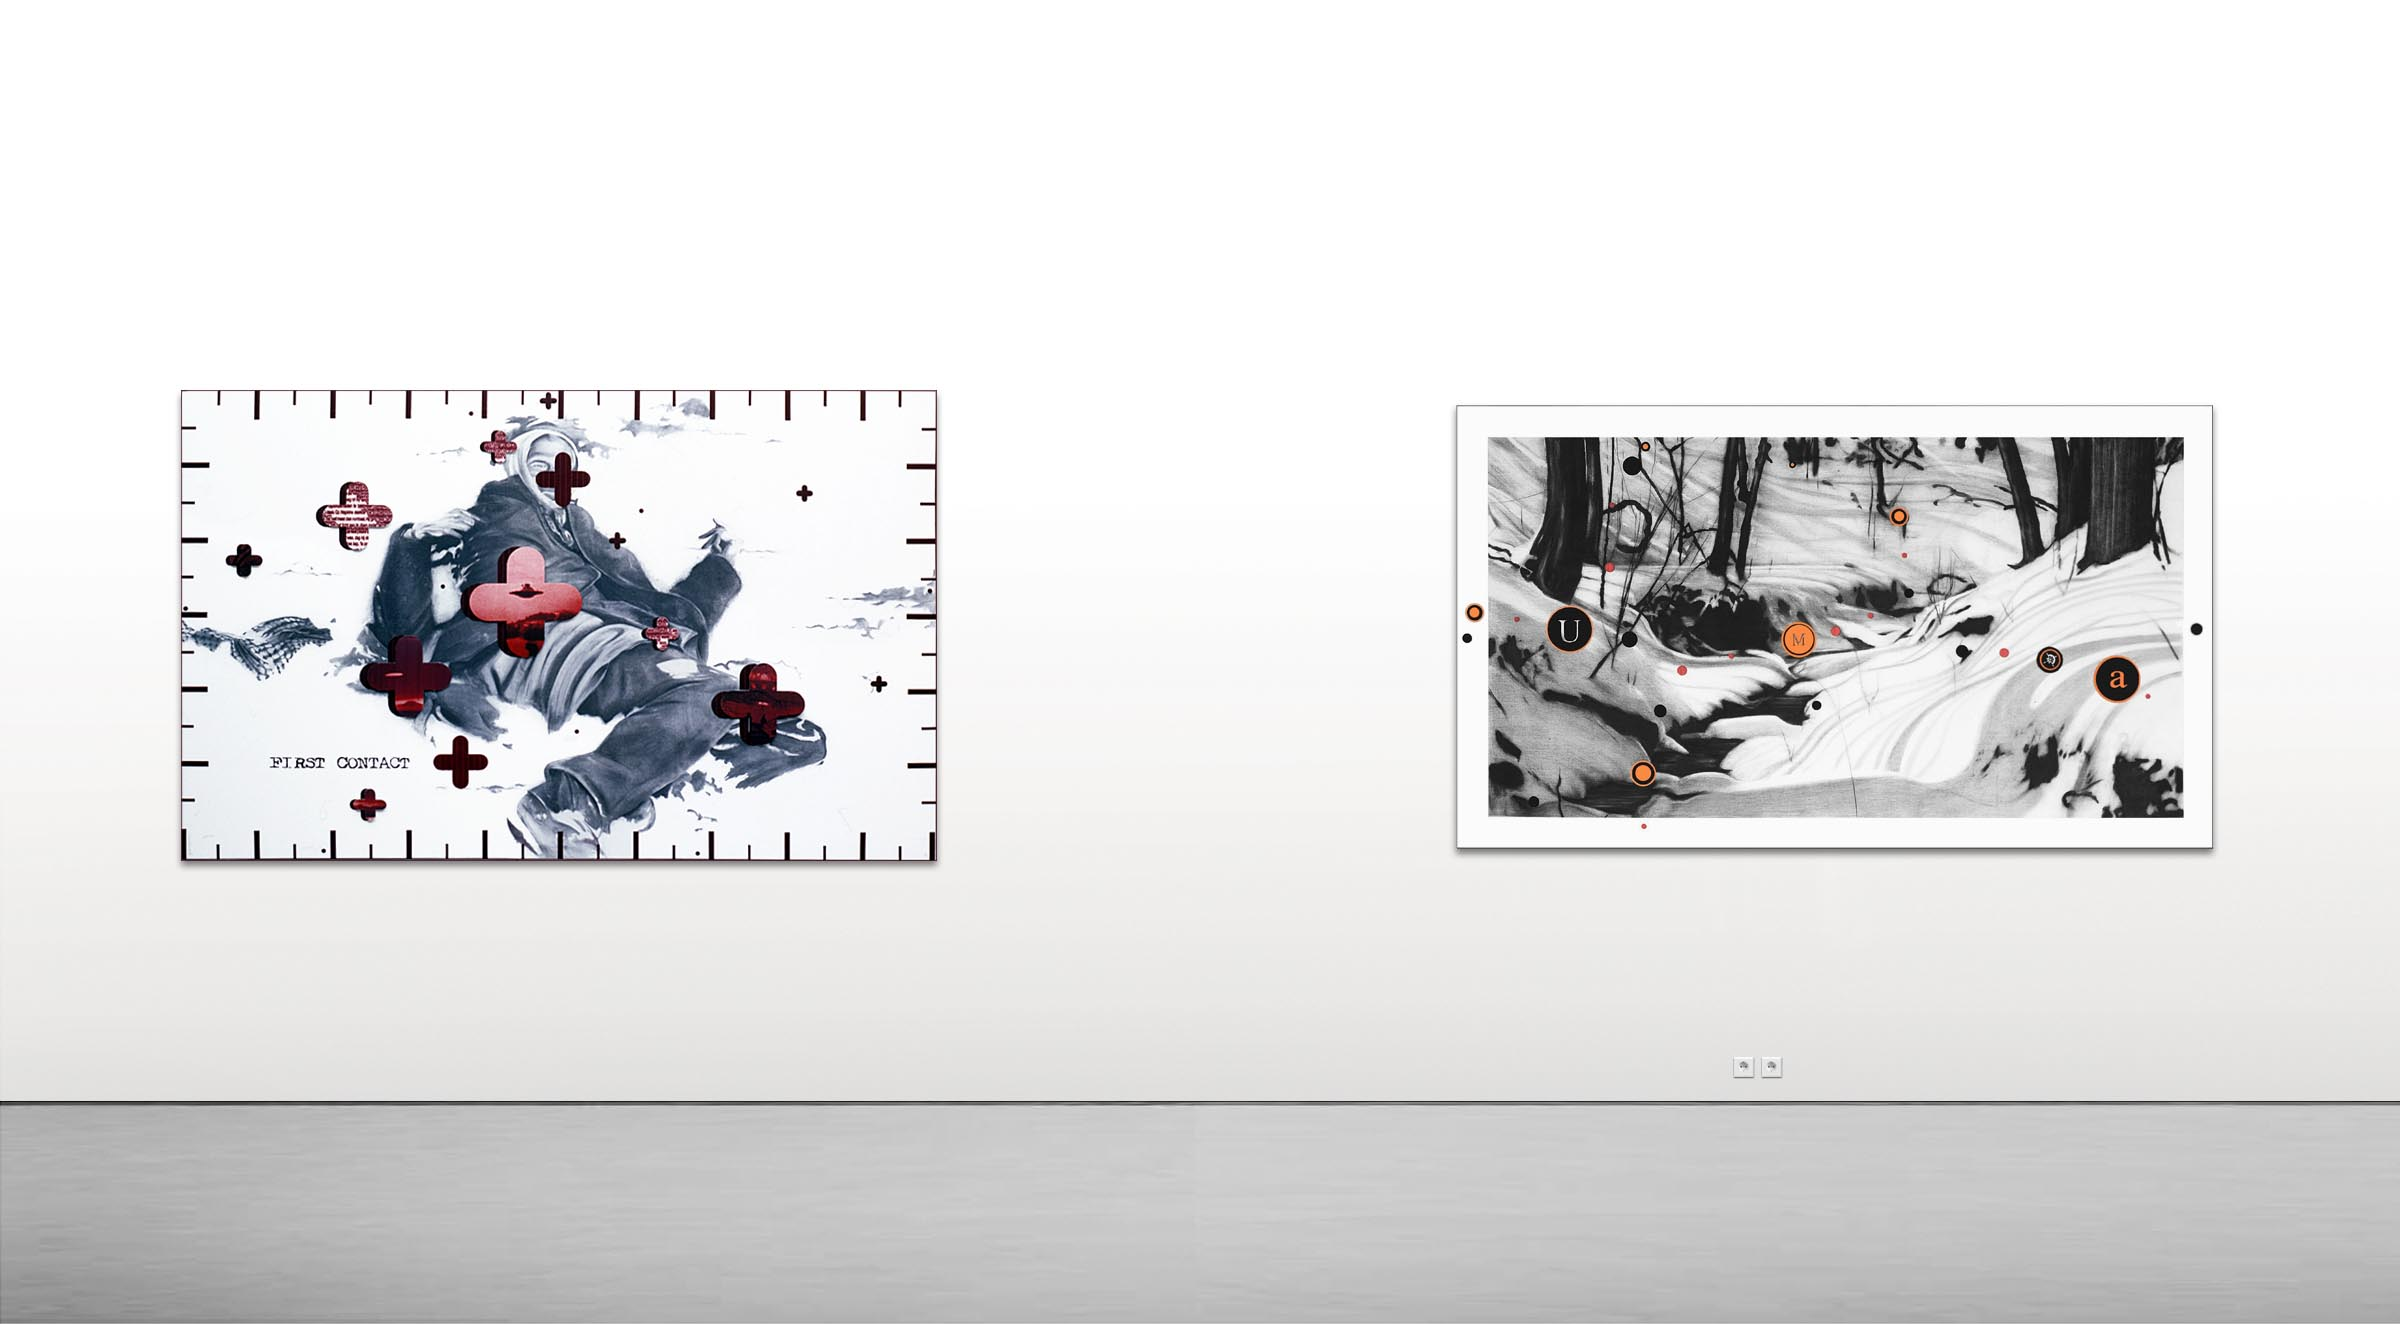
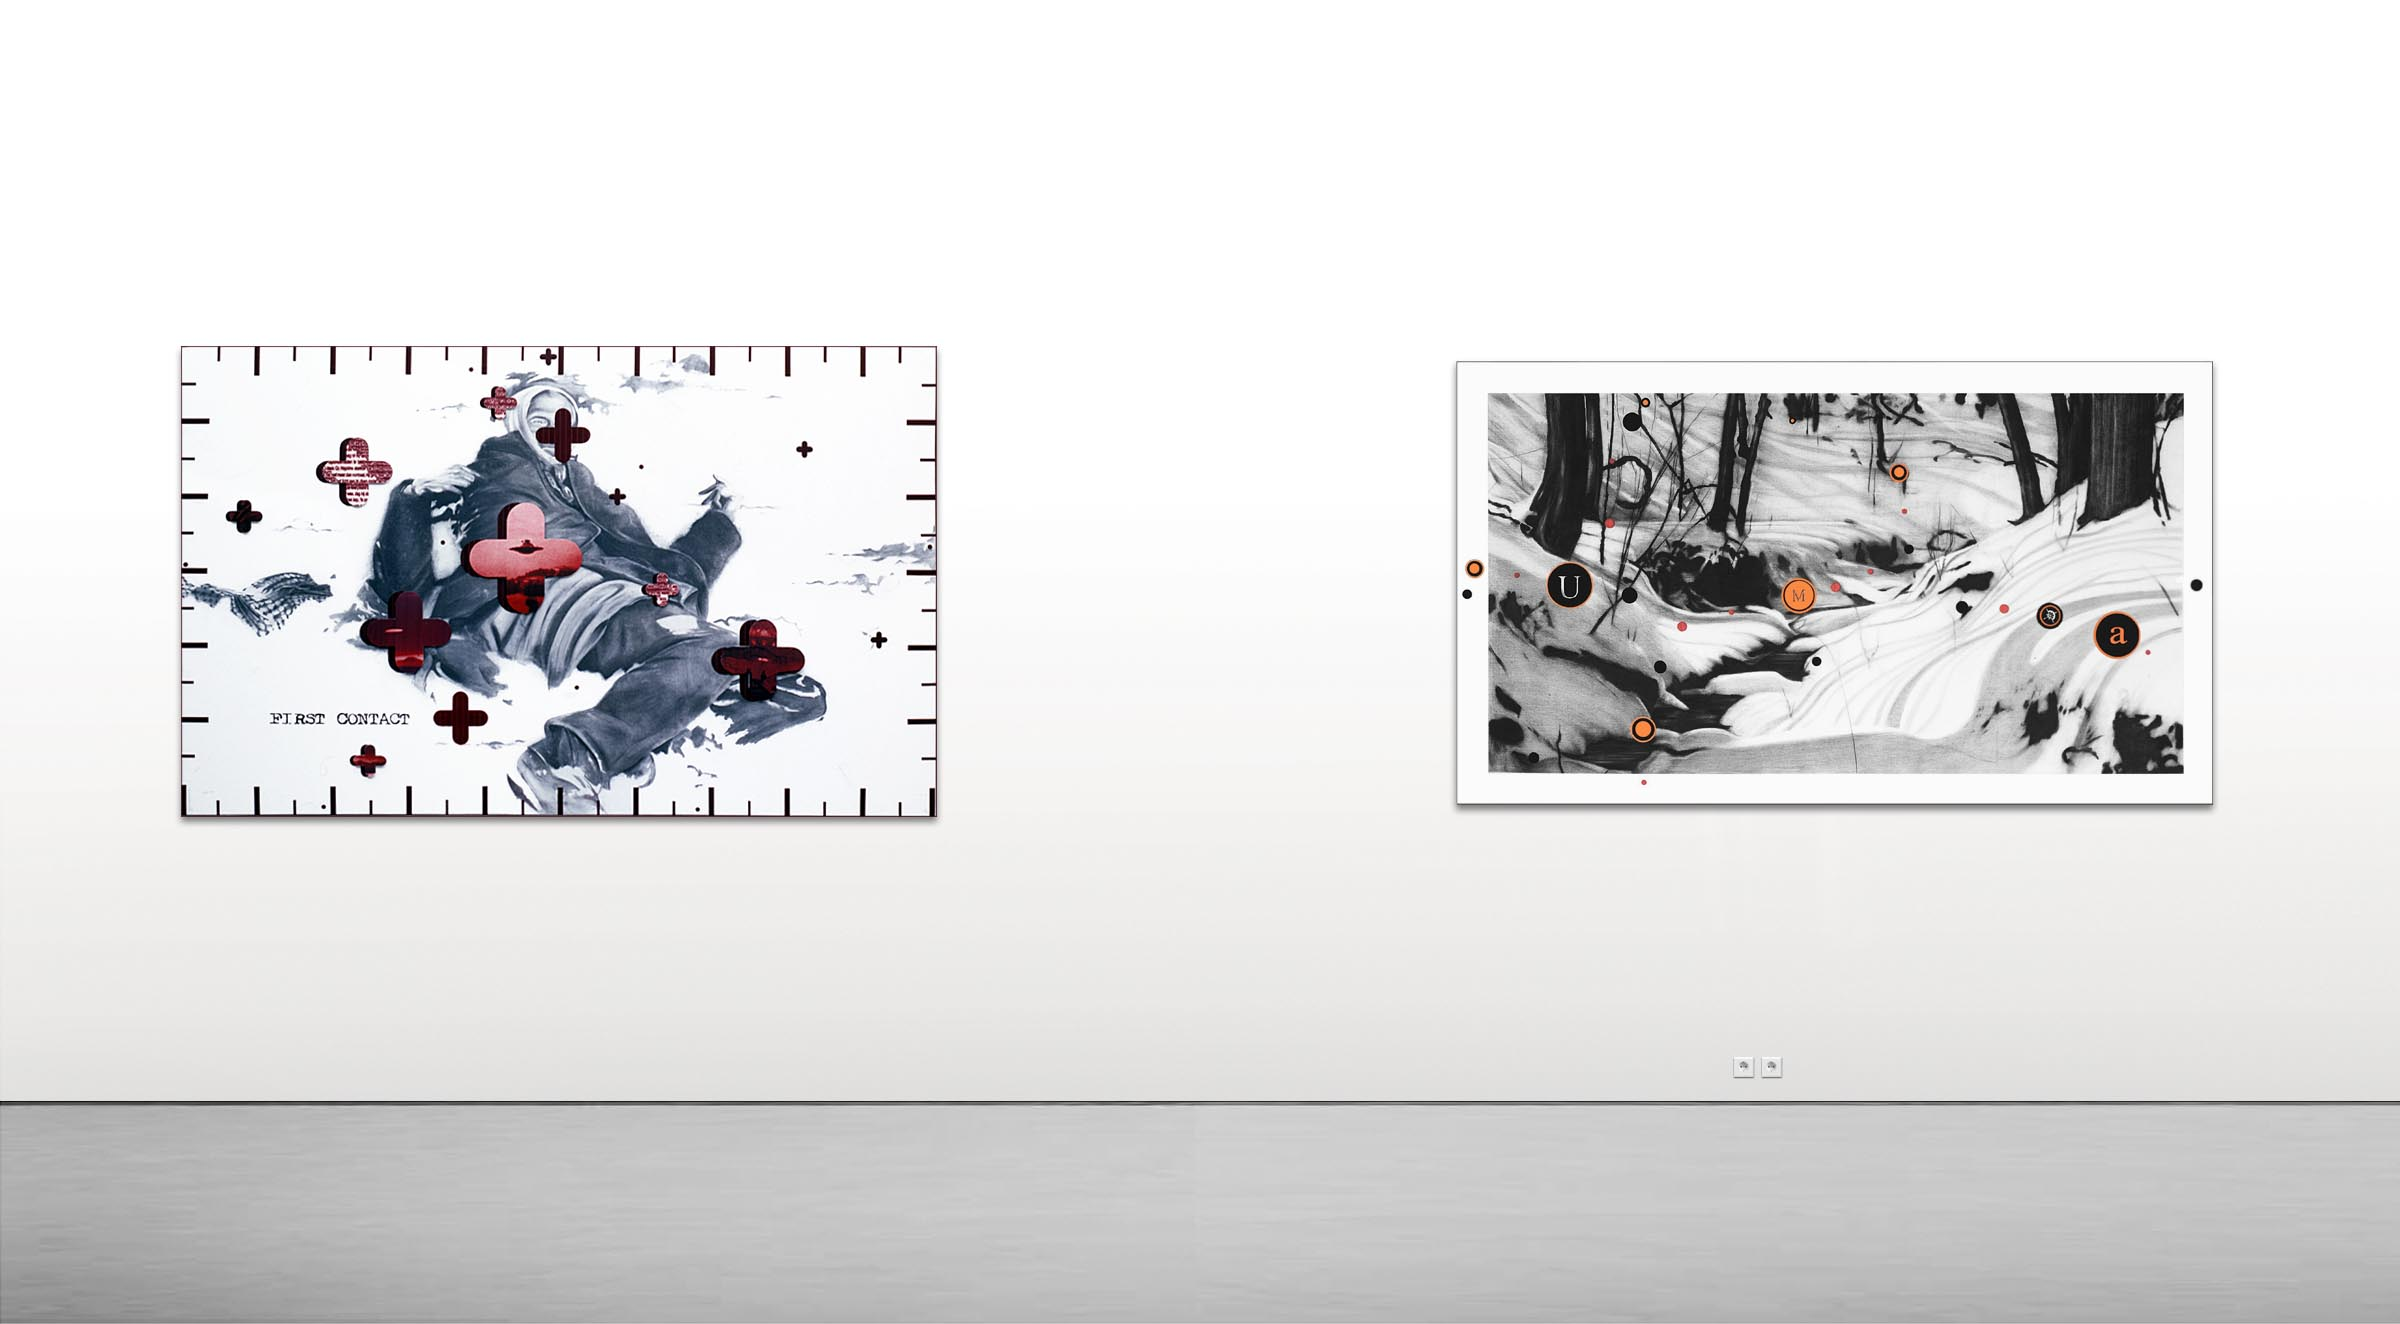
lazy loading img

Changed region(s): [[0.5938, 0.2787, 0.9375, 0.6503], [0.0625, 0.2477, 0.4062, 0.6813]]

diff --git a/src/components/pages/Home.jsx b/src/components/pages/Home.jsx
@@ -2,12 +2,11 @@ import { useState, useEffect } from "react";
 import { registry } from "../../registry";
 import data from "../../../data.json";
 import IntroSection from "../intro/IntroSection";
-import AboutMtg from "../AboutMtg";
 
 function RenderContent({ data: items }) {
   return items.map((item, index) => {
     const { type, ...props } = item;
-    console.log("Properties:", props);
+    // console.log("Properties:", props);
     const Component = registry[type];
 
     if (!Component) {
@@ -19,8 +18,18 @@ function RenderContent({ data: items }) {
   });
 }
 
+// const PAGE_SIZE = 20;
+
 export default function Home() {
+  // const [visibleCount, setVisibleCount] = useState(PAGE_SIZE);
   const [showScrollButton, setShowScrollButton] = useState(false);
+
+  // const visibleItems = data.slice(0, visibleCount); 
+  // const hasMore = visibleCount < data.length;
+
+  // function loadMore() {
+  //   setVisibleCount((prev) => Math.min(prev + PAGE_SIZE, data.length));
+  // }
 
   useEffect(() => {
     const handleScrollVisibility = () => {
@@ -45,6 +54,18 @@ export default function Home() {
         <div className="bg-white flex flex-col max-xsm:px-0">
           <IntroSection />
           <RenderContent data={data} />
+
+          {/* {hasMore && (
+            <div className="flex justify-center my-8">
+              <button
+                type="button"
+                onClick={loadMore}
+                className="px-6 py-3 border-2 border-[#b09a8d] rounded-full cursor-pointer hover:bg-[#b09a8d]/10"
+              >
+                Load more ({data.length - visibleCount} remaining)
+              </button>
+            </div>
+          )} */}
         </div>
       </div>
       {showScrollButton && (

diff --git a/src/components/Painting.jsx b/src/components/Painting.jsx
@@ -27,7 +27,7 @@ const Painting = ({ title, image, thumbs, bgstyle, id, cluster, year }) => {
       </div>
       <div className="bg-white flex justify-center items-center relative mt-4">
         <div className="w-full h-auto relative">
-          <img src={image} alt="noud van dun"/>
+          <img src={image} alt="noud van dun" loading="lazy"/>
           <PaintingInfoOverlay
             id={id}
             closeOverlay={setOpenCloseOverlay}
@@ -62,6 +62,7 @@ const Painting = ({ title, image, thumbs, bgstyle, id, cluster, year }) => {
                   src={painting.image}
                   className="w-[200px] h-[130px] object-cover detail max-xsm:w-[150px] max-xsm:h-[100px]"
                   alt="noud van dun"
+                  loading="lazy"
                 />
                 <div
                   className={`w-full max-w-[120px] border border-black text-sm text-black rounded-full flex items-center justify-center mt-4 h-[24px] max-sm:w-[100px] max-sm:text-[12px] max-sm:border-none`}
@@ -84,6 +85,7 @@ const Painting = ({ title, image, thumbs, bgstyle, id, cluster, year }) => {
                   src={thumbs[0]?.image}
                   className="w-[200px] h-auto object-cover detail max-xsm:w-[120px] "
                   alt="noud van dun"
+                  loading="lazy"
                 />
                 <div
                   className={`w-full max-w-[120px] border border-black text-sm text-black rounded-full flex items-center justify-center mt-4 h-[24px] max-sm:w-[100px] max-sm:text-[12px] max-sm:border-none`}

diff --git a/src/components/layout/RootLayout.jsx b/src/components/layout/RootLayout.jsx
@@ -6,7 +6,7 @@ import Footer from "../Footer";
 export default function RootLayout() {
   return (
     <>
-      <div className="w-full px-[20px] max-mobile:px-0">
+      <div className="w-full px-5 max-mobile:px-0">
         <div className="flex flex-row max-w-[1150px] mx-auto mb-40">
         <div className="bg-repeat-y w-full max-w-[55px] bg-[url(/images/ringbinder2.png)] bg-right bg-contain max-mobile:hidden max-lg:max-w-[40px]"  />
 
@@ -14,7 +14,7 @@ export default function RootLayout() {
         <Hero />
         <HeroTitle />
         <div className="flex flex-col max-sm:pr-2 max-mobile:px-0">
- <Outlet />
+             <Outlet />
         </div>
        
         <Footer />

diff --git a/src/components/Overview.jsx b/src/components/Overview.jsx
@@ -3,7 +3,7 @@ import React from "react";
 const Overview = ({ image }) => {
   return (
     <div className="flex justify-center w-full h-auto my-4 max-xsm:px-2 relative">
-      <img src={image} alt="overview" className="" alt="noud van dun" />
+      <img src={image}  className="" alt="noud van dun" loading="lazy" />
       <div className="absolute flex items-center justify-center bottom-4 right-4 text-white text-md  px-4 border border-white rounded-full max-md:text-[12px] max-sm:bottom-1 max-sm:right-1">
         Overview
       </div>

diff --git a/src/components/Duchamp.jsx b/src/components/Duchamp.jsx
@@ -8,7 +8,7 @@ const Duchamp = ({ image, url, name, year, title }) => {
         <span className="text-lg max-sm:text-sm">"{title}" {year}</span>
       </div>
       <div className="w-full bg-black">
-        <img src={image} alt="duchamp" />
+        <img src={image} alt="duchamp" loading="lazy"/>
       </div>
       <div className="flex flex-col bg-black text-xl text-white px-16 pt-12 pb-14 max-sm:text-lg max-sm:px-4 gap-y-4">
         <p>

diff --git a/src/components/DamienHirst.jsx b/src/components/DamienHirst.jsx
@@ -12,7 +12,7 @@ const DamienHirst = ({ image, name, title, year }) => {
         </span>
       </div>
       <div className="w-full h-auto ">
-        <img src={image} alt="" />
+        <img src={image} alt="" loading="lazy"/>
       </div>
       <div className="flex flex-col text-white px-16 text-xl gap-y-4 max-sm:text-lg max-sm:px-6">
         <p>

diff --git a/src/components/Banksy.jsx b/src/components/Banksy.jsx
@@ -35,6 +35,7 @@ const Banksy = ({image, title, name, year}) => {
           src={image}
           alt="noud van dun"
           className="w-full h-auto"
+          loading="lazy"
         />
       </div>
 

diff --git a/src/components/Cattelan.jsx b/src/components/Cattelan.jsx
@@ -46,6 +46,7 @@ const Cattelan = ({image, year, title, name}) => {
       src={image}
       alt="noud van dun"
       className="w-full h-auto"
+      loading="lazy"
     />
 
   </div>
